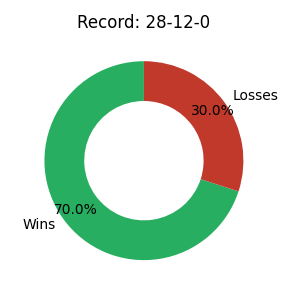
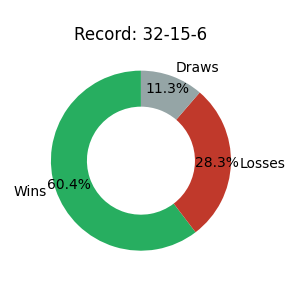
Auto-Update: Wrestling Ergebnisse 2026-05-01 17:52

Changed region(s): [[0.03, 0.18, 0.96, 0.87], [0.24, 0.03, 0.72, 0.15], [0.06, 0.72, 0.18, 0.78]]

diff --git a/src/site/notes/Wrestler/Tyler Bate.md b/src/site/notes/Wrestler/Tyler Bate.md
@@ -25,10 +25,10 @@ avg_rating: 83.56
 ### Advanced Stats
 | Record | Form | Facts |
 |:---:|---|---|
-| <img src="/img/charts/tyler-bate_stats.png" width="200"> | **✅✅✅✅❌**<br>**Loss:** Choke Slam World Trios Championship: Pete Dunne, Trent Seven & Tyler Bate vs. Kensuke Sasaki, Edge & Roman Reigns (c)  in [[Events/2026-03-16 - S07E08_Royal Rumble\|S07E08_Royal Rumble]] (2026-03-16)<br>**Win:** Pete Dunne, Trent Seven & Tyler Bate vs. Rey Fenix, Penta El Zero Miedo & Pac in [[Events/2025-10-02 - S07E04 The Iron Chamber - Night 2\|S07E04 The Iron Chamber - Night 2]] (2025-10-02)<br>**Win:** Trios League: Saint Rebel Radicalz vs. British Strong Style in [[Events/2025-09-04 - S07E04_The Iron Chamber - Night 1\|S07E04_The Iron Chamber - Night 1]] (2025-09-04)<br>**Win:** Militanter Mummenschanz vs. Pete Dunne, Tyler Bate & Trent Seven in [[Events/2025-09-04 - S07E04_The Iron Chamber - Night 1\|S07E04_The Iron Chamber - Night 1]] (2025-09-04)<br>**Win:** Sweet 'n Sour Elite vs. Pete Dunne, Trent Seven & Tyler Bate in [[Events/2025-09-04 - S07E04_The Iron Chamber - Night 1\|S07E04_The Iron Chamber - Night 1]] (2025-09-04)<br> | **Nemesis:** [[Wrestler/Bryan Danielson\|Bryan Danielson]]<br>**Partner:** [[Wrestler/Pete Dunne\|Pete Dunne]]<br>**Best Match:** 99% vs. Bob Backlund vs. Ricky Steamboat vs. Aoife Valkyrie vs. Bryan Danielson vs. Tyler Bate |
+| <img src="/img/charts/tyler-bate_stats.png" width="200"> | **✅✅✅✅❌**<br>**Loss:** Choke Slam World Trios Championship: Pete Dunne, Trent Seven & Tyler Bate vs. Kensuke Sasaki, Edge & Roman Reigns (c)  in [[Events/2026-03-16 - S07E08_Royal Rumble\|S07E08_Royal Rumble]] (2026-03-16)<br>**Win:** Pete Dunne, Trent Seven & Tyler Bate vs. Rey Fenix, Penta El Zero Miedo & Pac in [[Events/2025-10-02 - S07E04 The Iron Chamber - Night 2\|S07E04 The Iron Chamber - Night 2]] (2025-10-02)<br>**Win:** Trios League: Saint Rebel Radicalz vs. British Strong Style in [[Events/2025-09-04 - S07E04_The Iron Chamber - Night 1\|S07E04_The Iron Chamber - Night 1]] (2025-09-04)<br>**Win:** Militanter Mummenschanz vs. Pete Dunne, Tyler Bate & Trent Seven in [[Events/2025-09-04 - S07E04_The Iron Chamber - Night 1\|S07E04_The Iron Chamber - Night 1]] (2025-09-04)<br>**Win:** Sweet 'n Sour Elite vs. Pete Dunne, Trent Seven & Tyler Bate in [[Events/2025-09-04 - S07E04_The Iron Chamber - Night 1\|S07E04_The Iron Chamber - Night 1]] (2025-09-04)<br> | **Nemesis:** [[Wrestler/Daniel Bryan\|Daniel Bryan]]<br>**Partner:** [[Wrestler/Pete Dunne\|Pete Dunne]]<br>**Best Match:** 99% vs. Bob Backlund vs. Ricky Steamboat vs. Aoife Valkyrie vs. Bryan Danielson vs. Tyler Bate |
 
 ## Häufigste Gegner
-- [[Wrestler/Bryan Danielson\|Bryan Danielson]] (4x)
+- [[Wrestler/Daniel Bryan\|Daniel Bryan]] (5x)
 - [[Wrestler/Kazuchika Okada\|Kazuchika Okada]] (2x)
 - [[Wrestler/Rey Fenix\|Rey Fenix]] (2x)
 - [[Wrestler/Kensuke Sasaki\|Kensuke Sasaki]] (2x)
@@ -39,8 +39,8 @@ avg_rating: 83.56
 - [[Wrestler/Trent Seven\|Trent Seven]] (8x)
 
 ## Top Matches
-- 99%: [[Wrestler/Bob Backlund\|Bob Backlund]] vs. [[Wrestler/Ricky Steamboat\|Ricky Steamboat]] vs. [[Wrestler/Aoife Valkyrie\|Aoife Valkyrie]] vs. [[Wrestler/Bryan Danielson\|Bryan Danielson]] vs. [[Wrestler/Tyler Bate\|Tyler Bate]] in [[Events/2021-11-01 - S04E04_Admiral Lordevan Rules! - Part II\|S04E04_Admiral Lordevan Rules! - Part II]] (2021-11-01)
-- 99%: [[Wrestler/Asuka\|Asuka]] vs. [[Wrestler/Rey Mysterio\|Rey Mysterio]] Jr. vs. [[Wrestler/KUSHIDA\|KUSHIDA]]  vs. [[Wrestler/Kota Ibushi\|Kota Ibushi]] vs. [[Wrestler/Kazuchika Okada\|Kazuchika Okada]] vs. [[Wrestler/Bryan Danielson\|Bryan Danielson]] vs. [[Wrestler/Tyler Bate\|Tyler Bate]] in [[Events/2021-11-01 - S04E04_Admiral Lordevan Rules! - Part II\|S04E04_Admiral Lordevan Rules! - Part II]] (2021-11-01)
+- 99%: [[Wrestler/Bob Backlund\|Bob Backlund]] vs. [[Wrestler/Ricky Steamboat\|Ricky Steamboat]] vs. [[Wrestler/Aoife Valkyrie\|Aoife Valkyrie]] vs. Bryan Danielson vs. [[Wrestler/Tyler Bate\|Tyler Bate]] in [[Events/2021-11-01 - S04E04_Admiral Lordevan Rules! - Part II\|S04E04_Admiral Lordevan Rules! - Part II]] (2021-11-01)
+- 99%: [[Wrestler/Asuka\|Asuka]] vs. [[Wrestler/Rey Mysterio\|Rey Mysterio]] Jr. vs. [[Wrestler/KUSHIDA\|KUSHIDA]]  vs. [[Wrestler/Kota Ibushi\|Kota Ibushi]] vs. [[Wrestler/Kazuchika Okada\|Kazuchika Okada]] vs. Bryan Danielson vs. [[Wrestler/Tyler Bate\|Tyler Bate]] in [[Events/2021-11-01 - S04E04_Admiral Lordevan Rules! - Part II\|S04E04_Admiral Lordevan Rules! - Part II]] (2021-11-01)
 - 95%: [[Teams/Sweet 'n Sour Elite\|Sweet 'n Sour Elite]] vs. [[Wrestler/Pete Dunne\|Pete Dunne]], [[Wrestler/Trent Seven\|Trent Seven]] & [[Wrestler/Tyler Bate\|Tyler Bate]] in [[Events/2020-12-29 - S03E03_Battle of Britain - Night 2\|S03E03_Battle of Britain - Night 2]] (2020-12-29)
 - 95%: [[Choke Slam World Trios Championship]]: [[Wrestler/Pete Dunne\|Pete Dunne]], [[Wrestler/Trent Seven\|Trent Seven]] & [[Wrestler/Tyler Bate\|Tyler Bate]] vs. [[Wrestler/Kensuke Sasaki\|Kensuke Sasaki]], [[Wrestler/Edge\|Edge]] & [[Wrestler/Roman Reigns\|Roman Reigns]] (c)  in [[Events/2026-03-16 - S07E08_Royal Rumble\|S07E08_Royal Rumble]] (2026-03-16)
 - 89%: [[Teams/Saint Rebel Radicalz\|Saint Rebel Radicalz]] vs. [[Wrestler/Pete Dunne\|Pete Dunne]], [[Wrestler/Trent Seven\|Trent Seven]], & [[Wrestler/Tyler Bate\|Tyler Bate]] in [[Events/2020-12-29 - S03E03_Battle of Britain - Night 2\|S03E03_Battle of Britain - Night 2]] (2020-12-29)

diff --git a/src/site/notes/Wrestler/Daniel Bryan.md b/src/site/notes/Wrestler/Daniel Bryan.md
@@ -5,45 +5,47 @@ title: Daniel Bryan
 tags:
 - wrestler
 img: https://github.com/CptSpaulding1980/choke-slam-wrestling/releases/download/images/Daniel_Bryan.png
-matches: 40
-wins: 28
-losses: 12
-draws: 0
-win_percent: 70.0
-avg_rating: 86.4
+matches: 53
+wins: 32
+losses: 15
+draws: 6
+win_percent: 60.4
+avg_rating: 86.42
 ---
 
 # Daniel Bryan
+
+> ℹ **Auch bekannt als:** Bryan Danielson
 
 <table><tr><td><img src="https://github.com/CptSpaulding1980/choke-slam-wrestling/releases/download/images/Daniel_Bryan.png" width="280"></td><td><b>Height:</b> N/A<br><b>Weight:</b> N/A<br><b>Finisher:</b> N/A</td></tr></table>
 
 ## Karriere-Statistiken
 | Matches | Siege | Niederlagen | Draws | Win % | Ø Rating |
 |---|---|---|---|---|---|
-| 40 | 28 | 12 | 0 | 70.0% | 86.40 |
+| 53 | 32 | 15 | 6 | 60.4% | 86.42 |
 
 ### Advanced Stats
 | Record | Form | Facts |
 |:---:|---|---|
-| <img src="/img/charts/daniel-bryan_stats.png" width="200"> | **✅✅✅✅✅**<br>**Win:** Akira Taue vs. Daniel Bryan in [[Events/2026-04-14 - S07E09_Chokeslam Classic\|S07E09_Chokeslam Classic]] (2026-04-14)<br>**Win:** Brock Lesnar vs. Daniel Bryan in [[Events/2026-04-14 - S07E09_Chokeslam Classic\|S07E09_Chokeslam Classic]] (2026-04-14)<br>**Win:** Chris Jericho vs. Daniel Bryan in [[Events/2026-04-14 - S07E09_Chokeslam Classic\|S07E09_Chokeslam Classic]] (2026-04-14)<br>**Win:** Daniel Bryan vs. Kazuchika Okada in [[Events/2026-04-14 - S07E09_Chokeslam Classic\|S07E09_Chokeslam Classic]] (2026-04-14)<br>**Win:** Semi Finals: Daniel Bryan vs. Steve Austin in [[Events/2026-04-14 - S07E09_Chokeslam Classic\|S07E09_Chokeslam Classic]] (2026-04-14)<br> | **Nemesis:** [[Wrestler/Chris Jericho\|Chris Jericho]]<br>**Partner:** [[Wrestler/Wardlow\|Wardlow]]<br>**Best Match:** 100% vs. Choke Slam World Championship: Chris Jericho vs. Daniel Bryan vs. Lex Luger vs. Kevin Steen vs. Steve Austin vs.  Roman Reigns (c) |
+| <img src="/img/charts/daniel-bryan_stats.png" width="200"> | **✅✅✅✅✅**<br>**Win:** Akira Taue vs. Daniel Bryan in [[Events/2026-04-14 - S07E09_Chokeslam Classic\|S07E09_Chokeslam Classic]] (2026-04-14)<br>**Win:** Brock Lesnar vs. Daniel Bryan in [[Events/2026-04-14 - S07E09_Chokeslam Classic\|S07E09_Chokeslam Classic]] (2026-04-14)<br>**Win:** Chris Jericho vs. Daniel Bryan in [[Events/2026-04-14 - S07E09_Chokeslam Classic\|S07E09_Chokeslam Classic]] (2026-04-14)<br>**Win:** Daniel Bryan vs. Kazuchika Okada in [[Events/2026-04-14 - S07E09_Chokeslam Classic\|S07E09_Chokeslam Classic]] (2026-04-14)<br>**Win:** Semi Finals: Daniel Bryan vs. Steve Austin in [[Events/2026-04-14 - S07E09_Chokeslam Classic\|S07E09_Chokeslam Classic]] (2026-04-14)<br> | **Nemesis:** [[Wrestler/Chris Jericho\|Chris Jericho]]<br>**Partner:** [[Wrestler/Wardlow\|Wardlow]]<br>**Best Match:** 100% vs. Reveal Rumble |
 
 ## Häufigste Gegner
-- [[Wrestler/Chris Jericho\|Chris Jericho]] (11x)
-- [[Wrestler/Steve Austin\|Steve Austin]] (6x)
-- [[Wrestler/Akira Taue\|Akira Taue]] (5x)
-- [[Wrestler/Awesome Kong\|Awesome Kong]] (4x)
-- [[Wrestler/Edge\|Edge]] (4x)
+- [[Wrestler/Chris Jericho\|Chris Jericho]] (13x)
+- [[Wrestler/Steve Austin\|Steve Austin]] (8x)
+- [[Wrestler/Kazuchika Okada\|Kazuchika Okada]] (6x)
+- [[Wrestler/Bret Hart\|Bret Hart]] (6x)
+- [[Wrestler/Edge\|Edge]] (6x)
 
 ## Häufigste Partner
 - [[Wrestler/Wardlow\|Wardlow]] (14x)
 - [[Wrestler/Lex Luger\|Lex Luger]] (7x)
 - [[Wrestler/Bret Hart\|Bret Hart]] (5x)
 - [[Wrestler/Hiroshi Tanahashi\|Hiroshi Tanahashi]] (5x)
-- [[Wrestler/Roman Reigns\|Roman Reigns]] (2x)
+- [[Wrestler/Eddie Guerrero\|Eddie Guerrero]] (3x)
 
 ## Top Matches
+- 100%: Reveal Rumble in [[Events/2025-06-03 - S07E01_Brave new World\|S07E01_Brave new World]] (2025-06-03)
 - 100%: [[Choke Slam World Championship]]: [[Wrestler/Chris Jericho\|Chris Jericho]] vs. [[Wrestler/Daniel Bryan\|Daniel Bryan]] vs. [[Wrestler/Lex Luger\|Lex Luger]] vs. [[Wrestler/Kevin Steen\|Kevin Steen]] vs. [[Wrestler/Steve Austin\|Steve Austin]] vs.  [[Wrestler/Roman Reigns\|Roman Reigns]] (c) in [[Events/2025-10-02 - S07E04 The Iron Chamber - Night 2\|S07E04 The Iron Chamber - Night 2]] (2025-10-02)
 - 100%: [[Wrestler/Chris Jericho\|Chris Jericho]] vs. [[Wrestler/Daniel Bryan\|Daniel Bryan]] vs. [[Wrestler/Sasha Banks\|Sasha Banks]] in [[Events/2025-10-27 - S07E05_Threeway Fiasko\|S07E05_Threeway Fiasko]] (2025-10-27)
 - 100%: [[Wrestler/Akira Taue\|Akira Taue]] vs. [[Wrestler/Roman Reigns\|Roman Reigns]] vs. [[Wrestler/Daniel Bryan\|Daniel Bryan]] in [[Events/2025-10-27 - S07E05_Threeway Fiasko\|S07E05_Threeway Fiasko]] (2025-10-27)
 - 100%: Undisputed Era ([[Wrestler/Bobby Fish\|Bobby Fish]] & [[Wrestler/Kyle O'Reilly\|Kyle O'Reilly]]) vs. [[Teams/Militanter Mummenschanz\|Militanter Mummenschanz]] in [[Events/2025-11-18 - S07E06_War Games\|S07E06_War Games]] (2025-11-18)
-- 98%: [[Special Referee Steve Austin - Non Title]] Match: [[Wrestler/Daniel Bryan\|Daniel Bryan]] vs. [[Wrestler/Roman Reigns\|Roman Reigns]] in [[Events/2025-08-12 - S07E02_King & Queen of the Ring\|S07E02_King & Queen of the Ring]] (2025-08-12)

diff --git a/src/site/notes/Wrestler.md b/src/site/notes/Wrestler.md
@@ -71,14 +71,11 @@ tags: [index, wrestler]
 | [[Wrestler/Brock Lesnar\|Brock Lesnar]] | 31 | 14 | 14 | 3 | 45.2% | 82.71 |
 | [[Wrestler/Brody King\|Brody King]] | 9 | 1 | 6 | 2 | 11.1% | 84.78 |
 | [[Wrestler/Brooks Jensen\|Brooks Jensen]] | 2 | 0 | 2 | 0 | 0.0% | 81.50 |
-| [[Wrestler/Brother Nero\|Brother Nero]] | 1 | 1 | 0 | 0 | 100.0% | 72.00 |
 | [[Wrestler/Bruno Sammartino\|Bruno Sammartino]] | 4 | 3 | 0 | 1 | 75.0% | 78.50 |
 | [[Wrestler/Brutus Beefcake\|Brutus Beefcake]] | 16 | 3 | 4 | 9 | 18.8% | 89.50 |
-| [[Wrestler/Bryan Danielson\|Bryan Danielson]] | 13 | 4 | 3 | 6 | 30.8% | 86.46 |
 | [[Wrestler/Buh Buh Ray Dudley\|Buh Buh Ray Dudley]] | 6 | 1 | 5 | 0 | 16.7% | 81.50 |
 | [[Wrestler/Bull Nakano\|Bull Nakano]] | 19 | 6 | 10 | 3 | 31.6% | 86.05 |
 | [[Wrestler/CM Punk\|CM Punk]] | 24 | 7 | 9 | 8 | 29.2% | 86.38 |
-| [[Wrestler/Cactus Jack\|Cactus Jack]] | 5 | 1 | 4 | 0 | 20.0% | 75.20 |
 | [[Wrestler/Cameron Grimes\|Cameron Grimes]] | 1 | 0 | 0 | 1 | 0.0% | 92.00 |
 | [[Wrestler/Cesaro\|Cesaro]] | 13 | 6 | 5 | 2 | 46.2% | 87.31 |
 | [[Wrestler/Charlie Dempsey\|Charlie Dempsey]] | 3 | 1 | 2 | 0 | 33.3% | 75.00 |
@@ -107,7 +104,7 @@ tags: [index, wrestler]
 | [[Wrestler/Dalton Castle\|Dalton Castle]] | 13 | 2 | 7 | 4 | 15.4% | 85.85 |
 | [[Wrestler/Damian Priest\|Damian Priest]] | 4 | 1 | 2 | 1 | 25.0% | 82.50 |
 | [[Wrestler/Damien Sandow\|Damien Sandow]] | 4 | 2 | 1 | 1 | 50.0% | 80.50 |
-| [[Wrestler/Daniel Bryan\|Daniel Bryan]] | 40 | 28 | 12 | 0 | 70.0% | 86.40 |
+| [[Wrestler/Daniel Bryan\|Daniel Bryan]] | 53 | 32 | 15 | 6 | 60.4% | 86.42 |
 | [[Wrestler/Darby Allin\|Darby Allin]] | 3 | 0 | 3 | 0 | 0.0% | 78.67 |
 | [[Wrestler/Dario Cueto\|Dario Cueto]] | 1 | 0 | 0 | 1 | 0.0% | 60.00 |
 | [[Wrestler/Davey Boy Smith\|Davey Boy Smith]] | 11 | 4 | 4 | 3 | 36.4% | 89.45 |
@@ -129,7 +126,6 @@ tags: [index, wrestler]
 | [[Wrestler/Dragon Lee\|Dragon Lee]] | 2 | 0 | 1 | 1 | 0.0% | 83.50 |
 | [[Wrestler/Drew Gulak\|Drew Gulak]] | 17 | 3 | 12 | 2 | 17.6% | 79.18 |
 | [[Wrestler/Drew McIntyre\|Drew McIntyre]] | 4 | 2 | 1 | 1 | 50.0% | 83.00 |
-| [[Wrestler/Dude Love\|Dude Love]] | 1 | 0 | 1 | 0 | 0.0% | 75.00 |
 | [[Wrestler/Dudley Dudley\|Dudley Dudley]] | 3 | 1 | 2 | 0 | 33.3% | 84.33 |
 | [[Wrestler/Dustin Rhodes\|Dustin Rhodes]] | 28 | 11 | 13 | 4 | 39.3% | 88.07 |
 | [[Wrestler/Dusty Rhodes\|Dusty Rhodes]] | 18 | 5 | 8 | 5 | 27.8% | 84.22 |
@@ -218,7 +214,7 @@ tags: [index, wrestler]
 | [[Wrestler/Jay Briscoe\|Jay Briscoe]] | 3 | 1 | 0 | 2 | 33.3% | 88.00 |
 | [[Wrestler/Jay White\|Jay White]] | 47 | 17 | 24 | 6 | 36.2% | 87.38 |
 | [[Wrestler/Jeff Cobb\|Jeff Cobb]] | 11 | 5 | 4 | 2 | 45.5% | 84.73 |
-| [[Wrestler/Jeff Hardy\|Jeff Hardy]] | 4 | 3 | 1 | 0 | 75.0% | 83.75 |
+| [[Wrestler/Jeff Hardy\|Jeff Hardy]] | 5 | 4 | 1 | 0 | 80.0% | 81.40 |
 | [[Wrestler/Jeff Jarrett\|Jeff Jarrett]] | 24 | 7 | 14 | 3 | 29.2% | 87.71 |
 | [[Wrestler/Jerry Lawler\|Jerry Lawler]] | 10 | 3 | 5 | 2 | 30.0% | 83.60 |
 | [[Wrestler/Jerry Lynn\|Jerry Lynn]] | 6 | 2 | 3 | 1 | 33.3% | 92.50 |
@@ -293,7 +289,6 @@ tags: [index, wrestler]
 | [[Wrestler/Lyra Valkyria\|Lyra Valkyria]] | 1 | 0 | 0 | 1 | 0.0% | 93.00 |
 | [[Wrestler/Mabel\|Mabel]] | 1 | 0 | 1 | 0 | 0.0% | 75.00 |
 | [[Wrestler/Madison Rayne\|Madison Rayne]] | 38 | 15 | 16 | 7 | 39.5% | 85.29 |
-| [[Wrestler/Mankind\|Mankind]] | 1 | 0 | 1 | 0 | 0.0% | 79.00 |
 | [[Wrestler/Mansoor\|Mansoor]] | 11 | 4 | 6 | 1 | 36.4% | 88.73 |
 | [[Wrestler/Marcel Barthel\|Marcel Barthel]] | 3 | 2 | 1 | 0 | 66.7% | 78.33 |
 | [[Wrestler/Mari Apache\|Mari Apache]] | 1 | 0 | 0 | 1 | 0.0% | 100.00 |
@@ -319,6 +314,7 @@ tags: [index, wrestler]
 | [[Wrestler/Meng\|Meng]] | 3 | 0 | 2 | 1 | 0.0% | 81.00 |
 | [[Wrestler/Michael Hayes\|Michael Hayes]] | 1 | 0 | 0 | 1 | 0.0% | 90.00 |
 | [[Wrestler/Michelle McCool\|Michelle McCool]] | 2 | 0 | 0 | 2 | 0.0% | 89.00 |
+| [[Wrestler/Mick Foley\|Mick Foley]] | 7 | 1 | 6 | 0 | 14.3% | 75.71 |
 | [[Wrestler/Mickie James\|Mickie James]] | 4 | 2 | 2 | 0 | 50.0% | 81.50 |
 | [[Wrestler/Mike Awesome\|Mike Awesome]] | 1 | 0 | 1 | 0 | 0.0% | 102.00 |
 | [[Wrestler/Mike Sharpe\|Mike Sharpe]] | 1 | 0 | 1 | 0 | 0.0% | 69.00 |

diff --git a/src/site/notes/Events/2021-11-01 - S04E04_Admiral Lordevan Rules! - Part II.md b/src/site/notes/Events/2021-11-01 - S04E04_Admiral Lordevan Rules! - Part II.md
@@ -22,14 +22,14 @@ image: "https://github.com/CptSpaulding1980/choke-slam-wrestling/releases/downlo
 | 1 |  | [[Wrestler/Kevin Steen\|Kevin Steen]] vs. [[Wrestler/The Rock\|The Rock]] | Kevin Steen beat The Rock in 16 Min 43 Sec with a Frog Splash | 16:43 | ★★★★ | 86 |
 | 2 |  | [[Wrestler/Rush\|Rush]] vs. [[Wrestler/The Rock\|The Rock]] | Rush beat The Rock in 19 Min 35 Sec with a Running Face Dropkick | 19:35 | ★★★★¼ | 91 |
 | 3 |  | [[Wrestler/Kevin Steen\|Kevin Steen]] vs. [[Wrestler/Rush\|Rush]] | Kevin Steen beat Rush in 23 Min 2 Sec with a Pop-up Powerbomb | 23:02 | ★★★★½ | 92 |
-| 4 |  | [[Wrestler/Bob Backlund\|Bob Backlund]] vs. [[Wrestler/Ricky Steamboat\|Ricky Steamboat]] vs. [[Wrestler/Aoife Valkyrie\|Aoife Valkyrie]] vs. [[Wrestler/Bryan Danielson\|Bryan Danielson]] vs. [[Wrestler/Tyler Bate\|Tyler Bate]] | Bryan Danielson won a 5 wrestler battle royale in  37:20 | 37:20 | ★★★★¾ | 99 |
+| 4 |  | [[Wrestler/Bob Backlund\|Bob Backlund]] vs. [[Wrestler/Ricky Steamboat\|Ricky Steamboat]] vs. [[Wrestler/Aoife Valkyrie\|Aoife Valkyrie]] vs. Bryan Danielson vs. [[Wrestler/Tyler Bate\|Tyler Bate]] | Bryan Danielson won a 5 wrestler battle royale in  37:20 | 37:20 | ★★★★¾ | 99 |
 | 5 |  | [[Teams/Militanter Mummenschanz\|Militanter Mummenschanz]] vs. [[Teams/Sweet 'n Sour Elite\|Sweet 'n Sour Elite]] | Killer Kelly beat Ricky Steamboat in 27 Min 1 Sec with a Dragon Sleeper | 27:01 | ★★★★¼ | 90 |
 | 6 |  | [[Teams/Sweet 'n Sour Elite\|Sweet 'n Sour Elite]] vs. [[Teams/Saint Rebel Radicalz\|Saint Rebel Radicalz]] | Ricky Steamboat beat Rey Mysterio Jr. in 29 Min 54 Sec with a Flying Body Attack | 29:54 | ★★★¾ | 82 |
 | 7 |  | [[Teams/Saint Rebel Radicalz\|Saint Rebel Radicalz]] vs. [[Teams/Militanter Mummenschanz\|Militanter Mummenschanz]] | Rey Mysterio Jr. beat Killer Kelly in 29 Min 17 Sec with a High Angle Huracanrana | 29:17 | ★★★★½ | 94 |
-| 8 |  | [[Wrestler/Kevin Steen\|Kevin Steen]] vs. [[Wrestler/The Rock\|The Rock]] vs. [[Wrestler/Big Van Vader\|Big Van Vader]] vs. [[Wrestler/Bryan Danielson\|Bryan Danielson]] vs. [[Wrestler/Tyler Bate\|Tyler Bate]] | Kevin Steen won a 5 wrestler battle royale in  15:24 | 15:24 | ★★★¾ | 81 |
-| 9 |  | Consequences Creed vs. [[Wrestler/Chris Hero\|Chris Hero]] vs. [[Wrestler/Ilja Dragunov\|Ilja Dragunov]] vs. [[Wrestler/Bryan Danielson\|Bryan Danielson]] vs. [[Wrestler/Tyler Bate\|Tyler Bate]] | Consequences Creed won a 5 wrestler battle royale in  13:47 | 13:47 | ★★★ | 71 |
+| 8 |  | [[Wrestler/Kevin Steen\|Kevin Steen]] vs. [[Wrestler/The Rock\|The Rock]] vs. [[Wrestler/Big Van Vader\|Big Van Vader]] vs. Bryan Danielson vs. [[Wrestler/Tyler Bate\|Tyler Bate]] | Kevin Steen won a 5 wrestler battle royale in  15:24 | 15:24 | ★★★¾ | 81 |
+| 9 |  | Consequences Creed vs. [[Wrestler/Chris Hero\|Chris Hero]] vs. [[Wrestler/Ilja Dragunov\|Ilja Dragunov]] vs. Bryan Danielson vs. [[Wrestler/Tyler Bate\|Tyler Bate]] | Consequences Creed won a 5 wrestler battle royale in  13:47 | 13:47 | ★★★ | 71 |
 | 10 |  | [[Choke Slam Apple Championship]]: [[Wrestler/Ricky Steamboat\|Ricky Steamboat]] vs. [[Wrestler/AJ Styles\|AJ Styles]] | AJ Styles beat Ricky Steamboat in 15 Min 16 Sec with a Phenomenal Forearm | 15:16 | ★★★★¼ | 91 |
-| 11 |  | [[Wrestler/Asuka\|Asuka]] vs. [[Wrestler/Rey Mysterio\|Rey Mysterio]] Jr. vs. [[Wrestler/KUSHIDA\|KUSHIDA]]  vs. [[Wrestler/Kota Ibushi\|Kota Ibushi]] vs. [[Wrestler/Kazuchika Okada\|Kazuchika Okada]] vs. [[Wrestler/Bryan Danielson\|Bryan Danielson]] vs. [[Wrestler/Tyler Bate\|Tyler Bate]] | Kazuchika Okada won a 7 wrestler battle royale in  67:17 | 67:17 | ★★★★¾ | 99 |
+| 11 |  | [[Wrestler/Asuka\|Asuka]] vs. [[Wrestler/Rey Mysterio\|Rey Mysterio]] Jr. vs. [[Wrestler/KUSHIDA\|KUSHIDA]]  vs. [[Wrestler/Kota Ibushi\|Kota Ibushi]] vs. [[Wrestler/Kazuchika Okada\|Kazuchika Okada]] vs. Bryan Danielson vs. [[Wrestler/Tyler Bate\|Tyler Bate]] | Kazuchika Okada won a 7 wrestler battle royale in  67:17 | 67:17 | ★★★★¾ | 99 |
 
 ## Links
 - [[Events\|📅 Alle Events]]

diff --git a/src/site/notes/Wrestler/Jeff Hardy.md b/src/site/notes/Wrestler/Jeff Hardy.md
@@ -5,29 +5,32 @@ title: Jeff Hardy
 tags:
 - wrestler
 img: https://github.com/CptSpaulding1980/choke-slam-wrestling/releases/download/images/Jeff_Hardy.png
-matches: 4
-wins: 3
+matches: 5
+wins: 4
 losses: 1
 draws: 0
-win_percent: 75.0
-avg_rating: 83.75
+win_percent: 80.0
+avg_rating: 81.4
 ---
 
 # Jeff Hardy
+
+> ℹ **Auch bekannt als:** Brother Nero
 
 <table><tr><td><img src="https://github.com/CptSpaulding1980/choke-slam-wrestling/releases/download/images/Jeff_Hardy.png" width="280"></td><td><b>Height:</b> 187cm<br><b>Weight:</b> 102kg<br><b>Finisher:</b> Swanton Bomb</td></tr></table>
 
 ## Karriere-Statistiken
 | Matches | Siege | Niederlagen | Draws | Win % | Ø Rating |
 |---|---|---|---|---|---|
-| 4 | 3 | 1 | 0 | 75.0% | 83.75 |
+| 5 | 4 | 1 | 0 | 80.0% | 81.40 |
 
 ### Advanced Stats
 | Record | Form | Facts |
 |:---:|---|---|
-| <img src="/img/charts/jeff-hardy_stats.png" width="200"> | **✅✅✅❌**<br>**Loss:** Fly like an Eagle in [[Events/2025-03-03 - S06E11_Sweet but Psycho\|S06E11_Sweet but Psycho]] (2025-03-03)<br>**Win:** Fly like an Eagle in [[Events/2025-03-03 - S06E11_Sweet but Psycho\|S06E11_Sweet but Psycho]] (2025-03-03)<br>**Win:** Fly like an Eagle in [[Events/2025-03-03 - S06E11_Sweet but Psycho\|S06E11_Sweet but Psycho]] (2025-03-03)<br>**Win:** Me, Myself and I - Duo (Pascal) in [[Events/2022-11-07 - S04E12_ChokeSlamMania IV - Day 1\|S04E12_ChokeSlamMania IV - Day 1]] (2022-11-07)<br> | **Nemesis:** [[Wrestler/Shawn Michaels\|Shawn Michaels]]<br>**Partner:** [[Wrestler/Einzelgänger\|Einzelgänger]]<br>**Best Match:** 94% vs. Fly like an Eagle |
+| <img src="/img/charts/jeff-hardy_stats.png" width="200"> | **✅✅✅✅❌**<br>**Loss:** Fly like an Eagle in [[Events/2025-03-03 - S06E11_Sweet but Psycho\|S06E11_Sweet but Psycho]] (2025-03-03)<br>**Win:** Fly like an Eagle in [[Events/2025-03-03 - S06E11_Sweet but Psycho\|S06E11_Sweet but Psycho]] (2025-03-03)<br>**Win:** Fly like an Eagle in [[Events/2025-03-03 - S06E11_Sweet but Psycho\|S06E11_Sweet but Psycho]] (2025-03-03)<br>**Win:** Me, Myself and I - Uno (Pascal) in [[Events/2022-11-07 - S04E12_ChokeSlamMania IV - Day 1\|S04E12_ChokeSlamMania IV - Day 1]] (2022-11-07)<br>**Win:** Me, Myself and I - Duo (Pascal) in [[Events/2022-11-07 - S04E12_ChokeSlamMania IV - Day 1\|S04E12_ChokeSlamMania IV - Day 1]] (2022-11-07)<br> | **Nemesis:** [[Wrestler/Chris Hero\|Chris Hero]]<br>**Partner:** [[Wrestler/Einzelgänger\|Einzelgänger]]<br>**Best Match:** 94% vs. Fly like an Eagle |
 
 ## Häufigste Gegner
+- [[Wrestler/Chris Hero\|Chris Hero]] (1x)
 - [[Wrestler/Shawn Michaels\|Shawn Michaels]] (1x)
 - [[Wrestler/Finn Bálor\|Finn Bálor]] (1x)
 - [[Wrestler/Zack Sabre Jr.\|Zack Sabre Jr.]] (1x)
@@ -38,3 +41,4 @@ avg_rating: 83.75
 - 86%: Fly like an Eagle in [[Events/2025-03-03 - S06E11_Sweet but Psycho\|S06E11_Sweet but Psycho]] (2025-03-03)
 - 79%: Fly like an Eagle in [[Events/2025-03-03 - S06E11_Sweet but Psycho\|S06E11_Sweet but Psycho]] (2025-03-03)
 - 76%: Me, Myself and I - Duo (Pascal) in [[Events/2022-11-07 - S04E12_ChokeSlamMania IV - Day 1\|S04E12_ChokeSlamMania IV - Day 1]] (2022-11-07)
+- 72%: Me, Myself and I - Uno (Pascal) in [[Events/2022-11-07 - S04E12_ChokeSlamMania IV - Day 1\|S04E12_ChokeSlamMania IV - Day 1]] (2022-11-07)

diff --git a/src/site/notes/Wrestler/Kensuke Sasaki.md b/src/site/notes/Wrestler/Kensuke Sasaki.md
@@ -25,13 +25,13 @@ avg_rating: 87.15
 ### Advanced Stats
 | Record | Form | Facts |
 |:---:|---|---|
-| <img src="/img/charts/kensuke-sasaki_stats.png" width="200"> | **✅✅❌✅✅**<br>**Win:** Choke Slam World Trios Championship: Pete Dunne, Trent Seven & Tyler Bate vs. Kensuke Sasaki, Edge & Roman Reigns (c)  in [[Events/2026-03-16 - S07E08_Royal Rumble\|S07E08_Royal Rumble]] (2026-03-16)<br>**Win:** Kensuke Sasaki vs. Lady Apache vs. Bandido in [[Events/2025-10-27 - S07E05_Threeway Fiasko\|S07E05_Threeway Fiasko]] (2025-10-27)<br>**Loss:** Wardlow vs. Kensuke Sasaki vs. Jay White in [[Events/2025-10-27 - S07E05_Threeway Fiasko\|S07E05_Threeway Fiasko]] (2025-10-27)<br>**Win:** Bam Bam Bigelow vs. Kensuke Sasaki vs. Bret Hart in [[Events/2025-10-27 - S07E05_Threeway Fiasko\|S07E05_Threeway Fiasko]] (2025-10-27)<br>**Win:** Choke Slam Tag Team Championship: Saint Rebel Radicalz vs. Militanter Mummenschanz (c) in [[Events/2025-10-27 - S07E05_Threeway Fiasko\|S07E05_Threeway Fiasko]] (2025-10-27)<br> | **Nemesis:** [[Wrestler/Wardlow\|Wardlow]]<br>**Partner:** [[Wrestler/Roman Reigns\|Roman Reigns]]<br>**Best Match:** 100% vs. Reveal Rumble |
+| <img src="/img/charts/kensuke-sasaki_stats.png" width="200"> | **✅✅❌✅✅**<br>**Win:** Choke Slam World Trios Championship: Pete Dunne, Trent Seven & Tyler Bate vs. Kensuke Sasaki, Edge & Roman Reigns (c)  in [[Events/2026-03-16 - S07E08_Royal Rumble\|S07E08_Royal Rumble]] (2026-03-16)<br>**Win:** Kensuke Sasaki vs. Lady Apache vs. Bandido in [[Events/2025-10-27 - S07E05_Threeway Fiasko\|S07E05_Threeway Fiasko]] (2025-10-27)<br>**Loss:** Wardlow vs. Kensuke Sasaki vs. Jay White in [[Events/2025-10-27 - S07E05_Threeway Fiasko\|S07E05_Threeway Fiasko]] (2025-10-27)<br>**Win:** Bam Bam Bigelow vs. Kensuke Sasaki vs. Bret Hart in [[Events/2025-10-27 - S07E05_Threeway Fiasko\|S07E05_Threeway Fiasko]] (2025-10-27)<br>**Win:** Choke Slam Tag Team Championship: Saint Rebel Radicalz vs. Militanter Mummenschanz (c) in [[Events/2025-10-27 - S07E05_Threeway Fiasko\|S07E05_Threeway Fiasko]] (2025-10-27)<br> | **Nemesis:** [[Wrestler/Daniel Bryan\|Daniel Bryan]]<br>**Partner:** [[Wrestler/Roman Reigns\|Roman Reigns]]<br>**Best Match:** 100% vs. Reveal Rumble |
 
 ## Häufigste Gegner
+- [[Wrestler/Daniel Bryan\|Daniel Bryan]] (6x)
 - [[Wrestler/Wardlow\|Wardlow]] (6x)
 - [[Wrestler/Lex Luger\|Lex Luger]] (5x)
 - [[Wrestler/Bam Bam Bigelow\|Bam Bam Bigelow]] (5x)
-- [[Wrestler/Daniel Bryan\|Daniel Bryan]] (4x)
 - [[Wrestler/Steve Austin\|Steve Austin]] (3x)
 
 ## Häufigste Partner

diff --git a/src/site/notes/Wrestler/Fit Finlay.md b/src/site/notes/Wrestler/Fit Finlay.md
@@ -25,14 +25,14 @@ avg_rating: 90.1
 ### Advanced Stats
 | Record | Form | Facts |
 |:---:|---|---|
-| <img src="/img/charts/fit-finlay_stats.png" width="200"> | **⚪❌✅❌⚪**<br>**Draw:** Oerel Bardahl in [[Events/2025-08-21 - S07E03_Changes III\|S07E03_Changes III]] (2025-08-21)<br>**Loss:** Loser Leaves Town: Jay White vs. Fit Finlay vs. Roman Reigns in [[Events/2025-08-21 - S07E03_Changes III\|S07E03_Changes III]] (2025-08-21)<br>**Win:** Choke Slam Trios Championship: Sweet 'n Sour Elite vs. Los Jinetes del Aire (c) in [[Events/2025-08-12 - S07E02_King & Queen of the Ring\|S07E02_King & Queen of the Ring]] (2025-08-12)<br>**Loss:** Choke Slam Trios Championship: Militanter Mummenschanz vs. Sweet 'n Sour Elite (c) in [[Events/2025-08-12 - S07E02_King & Queen of the Ring\|S07E02_King & Queen of the Ring]] (2025-08-12)<br>**Draw:** Reveal Rumble in [[Events/2025-06-03 - S07E01_Brave new World\|S07E01_Brave new World]] (2025-06-03)<br> | **Nemesis:** [[Wrestler/Edge\|Edge]]<br>**Partner:** [[Wrestler/Charlotte Flair\|Charlotte Flair]]<br>**Best Match:** 102% vs. Bob Backlund vs. Fit Finlay |
+| <img src="/img/charts/fit-finlay_stats.png" width="200"> | **⚪❌✅❌⚪**<br>**Draw:** Oerel Bardahl in [[Events/2025-08-21 - S07E03_Changes III\|S07E03_Changes III]] (2025-08-21)<br>**Loss:** Loser Leaves Town: Jay White vs. Fit Finlay vs. Roman Reigns in [[Events/2025-08-21 - S07E03_Changes III\|S07E03_Changes III]] (2025-08-21)<br>**Win:** Choke Slam Trios Championship: Sweet 'n Sour Elite vs. Los Jinetes del Aire (c) in [[Events/2025-08-12 - S07E02_King & Queen of the Ring\|S07E02_King & Queen of the Ring]] (2025-08-12)<br>**Loss:** Choke Slam Trios Championship: Militanter Mummenschanz vs. Sweet 'n Sour Elite (c) in [[Events/2025-08-12 - S07E02_King & Queen of the Ring\|S07E02_King & Queen of the Ring]] (2025-08-12)<br>**Draw:** Reveal Rumble in [[Events/2025-06-03 - S07E01_Brave new World\|S07E01_Brave new World]] (2025-06-03)<br> | **Nemesis:** [[Wrestler/Daniel Bryan\|Daniel Bryan]]<br>**Partner:** [[Wrestler/Charlotte Flair\|Charlotte Flair]]<br>**Best Match:** 102% vs. Bob Backlund vs. Fit Finlay |
 
 ## Häufigste Gegner
+- [[Wrestler/Daniel Bryan\|Daniel Bryan]] (5x)
 - [[Wrestler/Edge\|Edge]] (4x)
 - [[Wrestler/Eddie Edwards\|Eddie Edwards]] (4x)
 - [[Wrestler/Wardlow\|Wardlow]] (4x)
 - [[Wrestler/Kurt Angle\|Kurt Angle]] (3x)
-- [[Wrestler/Bob Backlund\|Bob Backlund]] (3x)
 
 ## Häufigste Partner
 - [[Wrestler/Charlotte Flair\|Charlotte Flair]] (2x)

diff --git a/src/site/notes/Wrestler/Steve Austin.md b/src/site/notes/Wrestler/Steve Austin.md
@@ -25,12 +25,12 @@ avg_rating: 84.22
 ### Advanced Stats
 | Record | Form | Facts |
 |:---:|---|---|
-| <img src="/img/charts/steve-austin_stats.png" width="200"> | **❌✅✅⚪❌**<br>**Loss:** Steve Austin vs. Hiroshi Tanahashi in [[Events/2026-04-14 - S07E09_Chokeslam Classic\|S07E09_Chokeslam Classic]] (2026-04-14)<br>**Draw:** Bret Hart vs. Steve Austin in [[Events/2026-04-14 - S07E09_Chokeslam Classic\|S07E09_Chokeslam Classic]] (2026-04-14)<br>**Win:** Konosuke Takeshita vs. Steve Austin in [[Events/2026-04-14 - S07E09_Chokeslam Classic\|S07E09_Chokeslam Classic]] (2026-04-14)<br>**Win:** Eddie Kingston vs. Steve Austin in [[Events/2026-04-14 - S07E09_Chokeslam Classic\|S07E09_Chokeslam Classic]] (2026-04-14)<br>**Loss:** Semi Finals: Daniel Bryan vs. Steve Austin in [[Events/2026-04-14 - S07E09_Chokeslam Classic\|S07E09_Chokeslam Classic]] (2026-04-14)<br> | **Nemesis:** [[Wrestler/Roman Reigns\|Roman Reigns]]<br>**Partner:** [[Wrestler/Akira Taue\|Akira Taue]]<br>**Best Match:** 100% vs. Pre Show: Kazuchika Okada vs. Steve Austin |
+| <img src="/img/charts/steve-austin_stats.png" width="200"> | **❌✅✅⚪❌**<br>**Loss:** Steve Austin vs. Hiroshi Tanahashi in [[Events/2026-04-14 - S07E09_Chokeslam Classic\|S07E09_Chokeslam Classic]] (2026-04-14)<br>**Draw:** Bret Hart vs. Steve Austin in [[Events/2026-04-14 - S07E09_Chokeslam Classic\|S07E09_Chokeslam Classic]] (2026-04-14)<br>**Win:** Konosuke Takeshita vs. Steve Austin in [[Events/2026-04-14 - S07E09_Chokeslam Classic\|S07E09_Chokeslam Classic]] (2026-04-14)<br>**Win:** Eddie Kingston vs. Steve Austin in [[Events/2026-04-14 - S07E09_Chokeslam Classic\|S07E09_Chokeslam Classic]] (2026-04-14)<br>**Loss:** Semi Finals: Daniel Bryan vs. Steve Austin in [[Events/2026-04-14 - S07E09_Chokeslam Classic\|S07E09_Chokeslam Classic]] (2026-04-14)<br> | **Nemesis:** [[Wrestler/Daniel Bryan\|Daniel Bryan]]<br>**Partner:** [[Wrestler/Akira Taue\|Akira Taue]]<br>**Best Match:** 100% vs. Pre Show: Kazuchika Okada vs. Steve Austin |
 
 ## Häufigste Gegner
+- [[Wrestler/Daniel Bryan\|Daniel Bryan]] (8x)
 - [[Wrestler/Roman Reigns\|Roman Reigns]] (7x)
 - [[Wrestler/Chris Jericho\|Chris Jericho]] (6x)
-- [[Wrestler/Daniel Bryan\|Daniel Bryan]] (6x)
 - [[Wrestler/Kazuchika Okada\|Kazuchika Okada]] (5x)
 - [[Wrestler/Lex Luger\|Lex Luger]] (5x)
 

diff --git a/src/site/notes/Events/2024-12-27 - S06E09_Winter Warfare - Santa's Slam Edition.md b/src/site/notes/Events/2024-12-27 - S06E09_Winter Warfare - Santa's Slam Edition.md
@@ -29,9 +29,9 @@ image: "https://github.com/CptSpaulding1980/choke-slam-wrestling/releases/downlo
 | 8 |  | [[Wrestler/Finn Bálor\|Finn Bálor]] vs. [[Wrestler/Christmas Creature\|Christmas Creature]] | Finn Bálor beat Christmas Creature in 10 Min 39 Sec with a Coup de Gráce | 10:39 | ★★★¼ | 72 |
 | 9 |  | [[Wrestler/Joe Hendry\|Joe Hendry]] vs. [[Wrestler/Christmas Creature\|Christmas Creature]] | Joe Hendry beat Christmas Creature in 13 Min 6 Sec with an Ankle Hold | 13:06 | ★★★½ | 79 |
 | 10 |  | [[Wrestler/Roman Reigns\|Roman Reigns]] vs. [[Wrestler/Christmas Creature\|Christmas Creature]] | Roman Reigns beat Christmas Creature in 13 Min 7 Sec with a Scissors Front Necklock | 13:07 | ★★★★½ | 92 |
-| 11 |  | [[Wrestler/Randy Savage\|Randy Savage]] vs. [[Wrestler/Cactus Jack\|Cactus Jack]] | Randy Savage beat Cactus Jack in 9 Min 19 Sec with a Macho Flying Elbow Drop | 9:19 | ★★★¼ | 74 |
-| 12 |  | [[Wrestler/Zack Sabre\|Zack Sabre]] Jr. vs. [[Wrestler/Cactus Jack\|Cactus Jack]] | Zack Sabre Jr. beat Cactus Jack in 15 Min 47 Sec with an Omoplata Arm Lock C | 15:47 | ★★★½ | 77 |
-| 13 |  | Mystery vs. [[Wrestler/Cactus Jack\|Cactus Jack]] | The Rock beat Cactus Jack in 11 Min 31 Sec with a Bottom Drop | 11:31 | ★★ | 60 |
+| 11 |  | [[Wrestler/Randy Savage\|Randy Savage]] vs. Cactus Jack | Randy Savage beat Cactus Jack in 9 Min 19 Sec with a Macho Flying Elbow Drop | 9:19 | ★★★¼ | 74 |
+| 12 |  | [[Wrestler/Zack Sabre\|Zack Sabre]] Jr. vs. Cactus Jack | Zack Sabre Jr. beat Cactus Jack in 15 Min 47 Sec with an Omoplata Arm Lock C | 15:47 | ★★★½ | 77 |
+| 13 |  | Mystery vs. Cactus Jack | The Rock beat Cactus Jack in 11 Min 31 Sec with a Bottom Drop | 11:31 | ★★ | 60 |
 | 14 |  | [[Wrestler/Hiroshi Tanahashi\|Hiroshi Tanahashi]] vs. [[Wrestler/Steve Austin\|Steve Austin]] | Hiroshi Tanahashi beat Steve Austin in 15 Min 16 Sec with a High Fly Flow | 15:16 | ★★★¾ | 82 |
 | 15 |  | [[Wrestler/Gunther\|Gunther]] vs. [[Wrestler/Steve Austin\|Steve Austin]] | Gunther beat Steve Austin in 17 Min 47 Sec with a Powerbomb | 17:47 | ★★★¾ | 81 |
 | 16 |  | [[Wrestler/Laredo Kid\|Laredo Kid]] vs. [[Wrestler/Steve Austin\|Steve Austin]] | Steve Austin beat Laredo Kid in 18 Min 54 Sec with a Stone Cold Stunner | 18:54 | ★★★★ | 87 |

diff --git a/src/site/notes/Wrestler/Kota Ibushi.md b/src/site/notes/Wrestler/Kota Ibushi.md
@@ -42,7 +42,7 @@ avg_rating: 84.75
 
 ## Top Matches
 - 99%: [[Choke Slam Tag Team Championship]]: [[Wrestler/Joey Janela\|Joey Janela]] vs. [[Wrestler/Kane\|Kane]] vs. [[Wrestler/Bob Backlund\|Bob Backlund]] vs. [[Wrestler/Kota Ibushi\|Kota Ibushi]] vs. [[Wrestler/Christian Cage\|Christian Cage]] vs. [[Wrestler/Tetsuya Naito\|Tetsuya Naito]] in [[Events/2021-06-30 - S03E12_ChokeSlamMania III - Andre has a posse - Day 1\|S03E12_ChokeSlamMania III - Andre has a posse - Day 1]] (2021-06-30)
-- 99%: [[Wrestler/Asuka\|Asuka]] vs. [[Wrestler/Rey Mysterio\|Rey Mysterio]] Jr. vs. [[Wrestler/KUSHIDA\|KUSHIDA]]  vs. [[Wrestler/Kota Ibushi\|Kota Ibushi]] vs. [[Wrestler/Kazuchika Okada\|Kazuchika Okada]] vs. [[Wrestler/Bryan Danielson\|Bryan Danielson]] vs. [[Wrestler/Tyler Bate\|Tyler Bate]] in [[Events/2021-11-01 - S04E04_Admiral Lordevan Rules! - Part II\|S04E04_Admiral Lordevan Rules! - Part II]] (2021-11-01)
+- 99%: [[Wrestler/Asuka\|Asuka]] vs. [[Wrestler/Rey Mysterio\|Rey Mysterio]] Jr. vs. [[Wrestler/KUSHIDA\|KUSHIDA]]  vs. [[Wrestler/Kota Ibushi\|Kota Ibushi]] vs. [[Wrestler/Kazuchika Okada\|Kazuchika Okada]] vs. Bryan Danielson vs. [[Wrestler/Tyler Bate\|Tyler Bate]] in [[Events/2021-11-01 - S04E04_Admiral Lordevan Rules! - Part II\|S04E04_Admiral Lordevan Rules! - Part II]] (2021-11-01)
 - 92%: D: [[Wrestler/Roman Reigns\|Roman Reigns]] vs. [[Wrestler/Kota Ibushi\|Kota Ibushi]] in [[Events/2024-09-09 - S06E06_G1 Climax - Best of the Rest from the Past\|S06E06_G1 Climax - Best of the Rest from the Past]] (2024-09-09)
 - 90%: Greatest Rumble ever in [[Events/2021-05-18 - S03E10_Saudi Arabia - Blood and The biggest, greatest, most awesome, most fantastic Royal Rumble ever!\|S03E10_Saudi Arabia - Blood and The biggest, greatest, most awesome, most fantastic Royal Rumble ever!]] (2021-05-18)
 - 87%: Dan Koloff HC Tournament: [[Wrestler/The Butcher\|The Butcher]] vs. [[Wrestler/Kota Ibushi\|Kota Ibushi]] (M/[[Wrestler/r. Fuji\|r. Fuji]]) in [[Events/2021-07-26 - S03E12_ChokeSlamMania III - Andre has a posse - Day 2\|S03E12_ChokeSlamMania III - Andre has a posse - Day 2]] (2021-07-26)

diff --git a/src/site/notes/Wrestler/Rey Mysterio Jr..md b/src/site/notes/Wrestler/Rey Mysterio Jr..md
@@ -44,6 +44,6 @@ avg_rating: 82.78
 ## Top Matches
 - 99%: [[Wrestler/Cesaro\|Cesaro]]  vs. [[Wrestler/Dalton Castle\|Dalton Castle]] vs. [[Wrestler/Diesel\|Diesel]] vs. [[Wrestler/Kelly Klein\|Kelly Klein]] vs. [[Wrestler/The Undertaker\|The Undertaker]]  vs. [[Wrestler/The Rock\|The Rock]] vs. [[Wrestler/John Cena\|John Cena]] vs. [[Wrestler/Steve Austin\|Steve Austin]] in [[Events/2020-06-08 - S02E10_Dubai\|S02E10_Dubai]] (2020-06-08)
 - 99%: [[Teams/Saint Rebel Radicalz\|Saint Rebel Radicalz]] vs. [[Teams/Militanter Mummenschanz\|Militanter Mummenschanz]] in [[Events/2021-08-23 - S04E01_90's\|S04E01_90's]] (2021-08-23)
-- 99%: [[Wrestler/Asuka\|Asuka]] vs. [[Wrestler/Rey Mysterio\|Rey Mysterio]] Jr. vs. [[Wrestler/KUSHIDA\|KUSHIDA]]  vs. [[Wrestler/Kota Ibushi\|Kota Ibushi]] vs. [[Wrestler/Kazuchika Okada\|Kazuchika Okada]] vs. [[Wrestler/Bryan Danielson\|Bryan Danielson]] vs. [[Wrestler/Tyler Bate\|Tyler Bate]] in [[Events/2021-11-01 - S04E04_Admiral Lordevan Rules! - Part II\|S04E04_Admiral Lordevan Rules! - Part II]] (2021-11-01)
+- 99%: [[Wrestler/Asuka\|Asuka]] vs. [[Wrestler/Rey Mysterio\|Rey Mysterio]] Jr. vs. [[Wrestler/KUSHIDA\|KUSHIDA]]  vs. [[Wrestler/Kota Ibushi\|Kota Ibushi]] vs. [[Wrestler/Kazuchika Okada\|Kazuchika Okada]] vs. Bryan Danielson vs. [[Wrestler/Tyler Bate\|Tyler Bate]] in [[Events/2021-11-01 - S04E04_Admiral Lordevan Rules! - Part II\|S04E04_Admiral Lordevan Rules! - Part II]] (2021-11-01)
 - 99%: [[Tables]]: [[Teams/Saint Rebel Radicalz\|Saint Rebel Radicalz]] vs. [[Wrestler/Big Dick Dudley\|Big Dick Dudley]], [[Wrestler/Buh Buh Ray Dudley\|Buh Buh Ray Dudley]], & [[Wrestler/D-Von Dudley\|D-Von Dudley]] in [[Events/2022-02-09 - S04E07_Extreme\|S04E07_Extreme]] (2022-02-09)
 - 97%: [[Choke Slam Apple Championship]]: [[Wrestler/Rey Mysterio\|Rey Mysterio]] Jr. vs. [[Wrestler/Lance Storm\|Lance Storm]] in [[Events/2022-02-21 - S04E08_Fan Favourites\|S04E08_Fan Favourites]] (2022-02-21)

diff --git a/src/site/notes/Statistiken/PWI 500.md b/src/site/notes/Statistiken/PWI 500.md
@@ -7,7 +7,7 @@ noteIcon: "🏆"
 
 # 🏆 PWI 500 – Choke Slam Wrestling
 
-> **Stand:** 2026-05-01 17:47 | **Matches:** 1194 | **Wrestler geranked:** 287 | **Events:** 78
+> **Stand:** 2026-05-01 17:52 | **Matches:** 1194 | **Wrestler geranked:** 286 | **Events:** 78
 
 **Scoring:** PWI Punkte = (Wins × 2) + Draws − Losses + (Ø Rating × 0.3) + Championship Bonus
 
@@ -25,11 +25,11 @@ Championship Bonus: World +20 · International/Women's +15 · Tag Team +10 · Tr
 | 6 | Triple H | 34 | 19 | 3 | 61% | 81 | 76 |
 | 7 | Bret Hart | 41 | 39 | 6 | 48% | 88 | 75 |
 | 8 | AJ Styles | 33 | 22 | 3 | 57% | 82 | 72 |
-| 9 | The Undertaker | 32 | 20 | 1 | 60% | 83 | 70 |
-| 10 | Big Van Vader | 31 | 19 | 1 | 61% | 82 | 69 |
-| 11 | Gunther | 29 | 18 | 3 | 58% | 84 | 68 |
-| 12 | Hulk Hogan | 32 | 25 | 3 | 53% | 86 | 68 |
-| 13 | Daniel Bryan | 27 | 12 | 0 | 69% | 86 | 68 |
+| 9 | Daniel Bryan | 30 | 15 | 0 | 67% | 86 | 71 |
+| 10 | The Undertaker | 32 | 20 | 1 | 60% | 83 | 70 |
+| 11 | Big Van Vader | 31 | 19 | 1 | 61% | 82 | 69 |
+| 12 | Gunther | 29 | 18 | 3 | 58% | 84 | 68 |
+| 13 | Hulk Hogan | 32 | 25 | 3 | 53% | 86 | 68 |
 | 14 | Chris Jericho 🏆 | 20 | 16 | 0 | 56% | 85 | 65 |
 | 15 | Awesome Kong 🏆 | 15 | 16 | 2 | 45% | 82 | 56 |
 | 16 | Johnny Mundo | 17 | 4 | 0 | 81% | 85 | 56 |
@@ -267,7 +267,7 @@ Championship Bonus: World +20 · International/Women's +15 · Tag Team +10 · Tr
 
 ## 📊 Statistiken
 
-- **Winning Record (≥50%):** 106 Wrestler
+- **Winning Record (≥50%):** 105 Wrestler
 - **Losing Record (<50%):** 181 Wrestler
 
 ### Top 5 – Meiste Siege
@@ -281,4 +281,4 @@ Championship Bonus: World +20 · International/Women's +15 · Tag Team +10 · Tr
 
 ---
 *Auto-generiert vom Choke Slam PWI 500 Generator*
-*Stand: 2026-05-01 17:47*
+*Stand: 2026-05-01 17:52*
